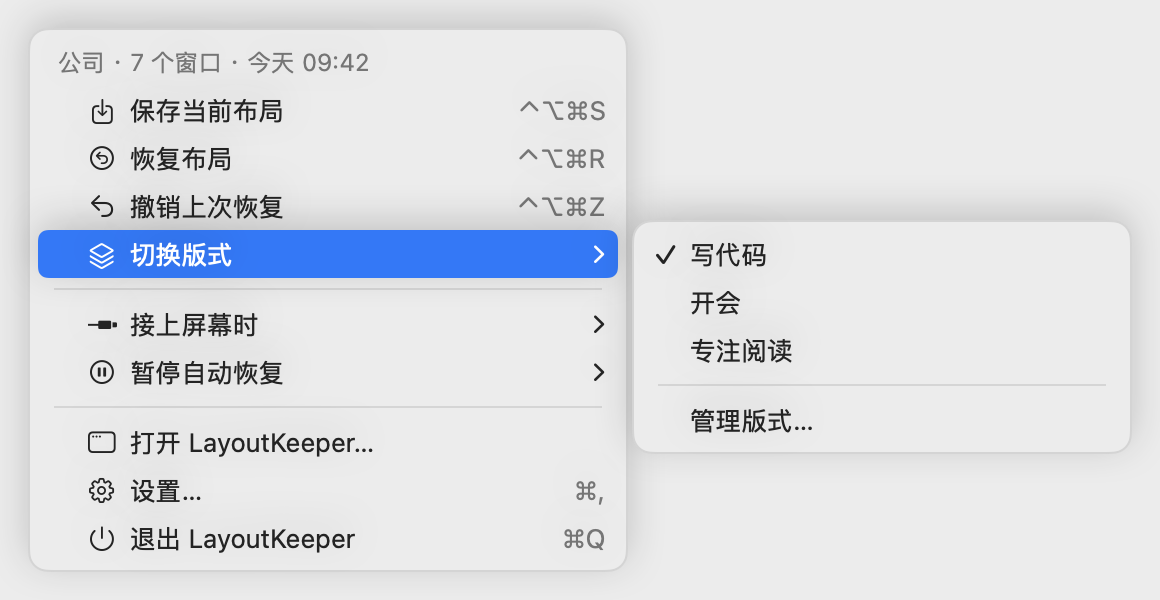
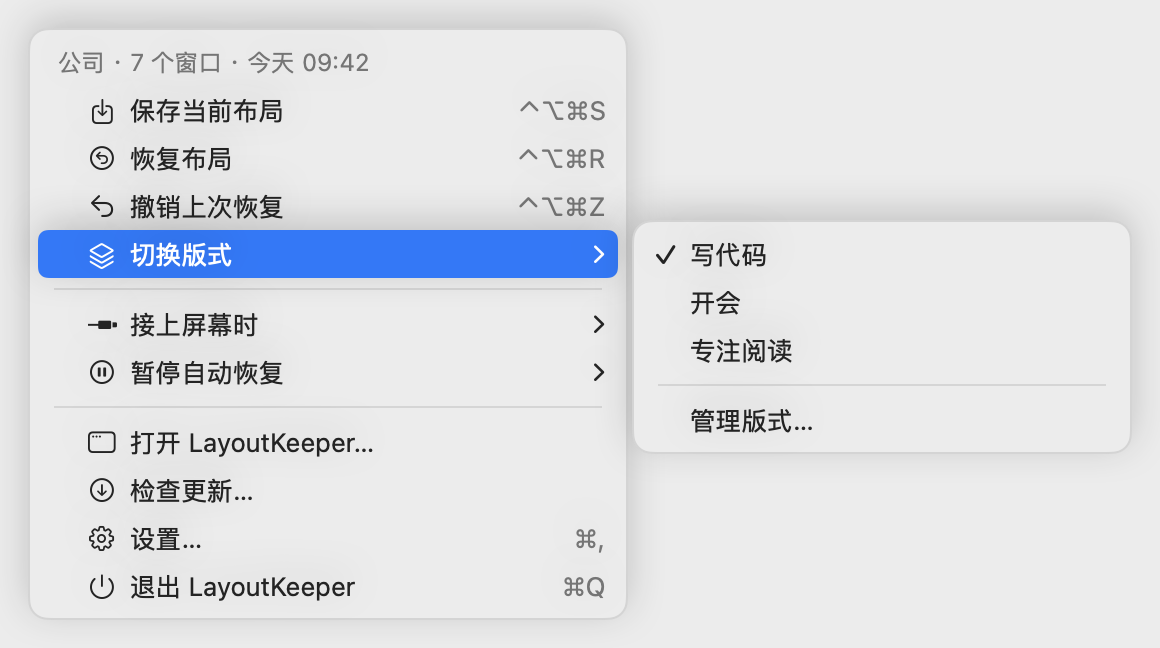
0.6.1: stable self-signed signing (cert-leaf DR) and Sparkle 2 updates (检查更新, per-arch appcasts)

diff --git a/Sources/SpacePort/Updates.swift b/Sources/SpacePort/Updates.swift
@@ -1,0 +1,58 @@
+// SPDX-License-Identifier: GPL-3.0-only
+// Copyright (C) 2026 LayoutKeeper contributors
+import AppKit
+import Sparkle
+
+/// In-app updates (Sparkle 2). Checks only contact the feed in Info.plist (GitHub Releases); updates must carry
+/// a valid EdDSA signature for SUPublicEDKey, and the new app is signed with the same certificate, so the
+/// Accessibility permission carries over.
+final class AppUpdater {
+    let controller: SPUStandardUpdaterController
+    init() { controller=SPUStandardUpdaterController(startingUpdater:true,updaterDelegate:nil,userDriverDelegate:nil) }
+    /// Nil in builds without a feed (e.g. snapshot rendering).
+    static func makeIfConfigured() -> AppUpdater? {
+        guard !RenderMode.snapshot,Bundle.main.object(forInfoDictionaryKey:"SUFeedURL") != nil,Bundle.main.object(forInfoDictionaryKey:"SUPublicEDKey") != nil else { return nil }
+        return AppUpdater()
+    }
+    var automaticallyChecks: Bool {
+        get { controller.updater.automaticallyChecksForUpdates }
+        set { controller.updater.automaticallyChecksForUpdates=newValue }
+    }
+    func checkForUpdates() { NSApp.activate(ignoringOtherApps:true); controller.checkForUpdates(nil) }
+}
+
+/// `--update-check-and-install`: headless verification used by the release checklist. Checks the configured feed,
+/// accepts the update, installs it without relaunching, logs each step to stdout and exits. Starts nothing else
+/// (no status item, hotkeys, auto-restore or window access).
+final class HeadlessUpdateDriver: NSObject, SPUUserDriver, SPUUpdaterDelegate {
+    private var updater: SPUUpdater?
+    static func log(_ s: String) { print("[update-test] \(s)"); fflush(stdout) }
+    func start() {
+        let u=SPUUpdater(hostBundle:.main,applicationBundle:.main,userDriver:self,delegate:self)
+        updater=u
+        do { try u.start() } catch { Self.log("start failed: \(error)"); exit(2) }
+        Self.log("current version \(Bundle.main.object(forInfoDictionaryKey:"CFBundleShortVersionString") ?? "?"), feed \(Bundle.main.object(forInfoDictionaryKey:"SUFeedURL") ?? "?")")
+        u.checkForUpdates()
+    }
+    func updaterShouldRelaunchApplication(_ updater: SPUUpdater) -> Bool { false }
+    func show(_ request: SPUUpdatePermissionRequest,reply: @escaping (SUUpdatePermissionResponse) -> Void) { reply(SUUpdatePermissionResponse(automaticUpdateChecks:false,sendSystemProfile:false)) }
+    func showUserInitiatedUpdateCheck(cancellation: @escaping () -> Void) { Self.log("checking…") }
+    func showUpdateFound(with item: SUAppcastItem,state: SPUUserUpdateState,reply: @escaping (SPUUserUpdateChoice) -> Void) {
+        Self.log("update found: \(item.displayVersionString) (\(item.versionString)); installing"); reply(.install)
+    }
+    func showUpdateReleaseNotes(with downloadData: SPUDownloadData) {}
+    func showUpdateReleaseNotesFailedToDownloadWithError(_ error: Error) {}
+    func showUpdateNotFoundWithError(_ error: Error,acknowledgement: @escaping () -> Void) { Self.log("no update: \(error.localizedDescription)"); acknowledgement(); exit(3) }
+    func showUpdaterError(_ error: Error,acknowledgement: @escaping () -> Void) { Self.log("error: \(error.localizedDescription) \((error as NSError).userInfo)"); acknowledgement(); exit(4) }
+    func showDownloadInitiated(cancellation: @escaping () -> Void) { Self.log("downloading…") }
+    func showDownloadDidReceiveExpectedContentLength(_ expectedContentLength: UInt64) {}
+    func showDownloadDidReceiveData(ofLength length: UInt64) {}
+    func showDownloadDidStartExtractingUpdate() { Self.log("verifying signature and extracting…") }
+    func showExtractionReceivedProgress(_ progress: Double) {}
+    func showReady(toInstallAndRelaunch reply: @escaping (SPUUserUpdateChoice) -> Void) { Self.log("ready to install; exiting so the installer can replace the bundle"); reply(.install)
+        DispatchQueue.main.asyncAfter(deadline:.now()+2) { Self.log("exiting"); exit(0) } }
+    func showInstallingUpdate(withApplicationTerminated applicationTerminated: Bool,retryTerminatingApplication: @escaping () -> Void) { Self.log("installing (terminated=\(applicationTerminated))") }
+    func showUpdateInstalledAndRelaunched(_ relaunched: Bool,acknowledgement: @escaping () -> Void) { Self.log("installed"); acknowledgement() }
+    func showUpdateInFocus() {}
+    func dismissUpdateInstallation() {}
+}

diff --git a/Sources/SpacePort/main.swift b/Sources/SpacePort/main.swift
@@ -77,6 +77,9 @@ final class Model: ObservableObject {
     var appNameCache: [String:String]=[:]
     var cachedCrossSpaceSupport: CrossSpaceSupport?
     @Published var actionNote: ActionNote?
+    /// Sparkle; nil in snapshot rendering and builds without a feed.
+    var updater: AppUpdater? { didSet { autoCheckUpdates=updater?.automaticallyChecks ?? true } }
+    @Published var autoCheckUpdates=true { didSet { if let updater,updater.automaticallyChecks != autoCheckUpdates { updater.automaticallyChecks=autoCheckUpdates } } }
     @Published var settingsTab=SettingsTab.general
     var openSettings: ((SettingsTab) -> Void)?
     @Published var autoRestoreMode=AutoRestoreMode(rawValue:Prefs.store?.string(forKey:"autoRestoreMode") ?? "") ?? .defaultMode {
@@ -149,6 +152,7 @@ final class Delegate: NSObject, NSApplicationDelegate, NSMenuDelegate, NSWindowD
     var onboarding: OnboardingController?
     var authorizationTimer: Timer?
     let toasts=ToastCenter()
+    var updater: AppUpdater?
     let hotkeys=GlobalHotkeys()
     private var liveTimer: Timer?
     private var lastAction: [String:Date]=[:]
@@ -163,6 +167,7 @@ final class Delegate: NSObject, NSApplicationDelegate, NSMenuDelegate, NSWindowD
     }
     func applicationDidFinishLaunching(_ notification: Notification) {
         model.configureEmptyWindowTrial()
+        updater=AppUpdater.makeIfConfigured(); model.updater=updater
         item=NSStatusBar.system.statusItem(withLength:NSStatusItem.variableLength)
         item.button?.image=NSImage(systemSymbolName:"rectangle.3.group",accessibilityDescription:"LayoutKeeper")
         let menu=NSMenu(); menu.autoenablesItems=false; menu.delegate=self
@@ -290,6 +295,7 @@ final class Delegate: NSObject, NSApplicationDelegate, NSMenuDelegate, NSWindowD
         case "resume": model.pausedUntil=nil
         case "open": show()
         case "settings": showSettings(.general)
+        case "checkUpdates": updater?.checkForUpdates()
         case "quit": NSApplication.shared.terminate(nil)
         case let layout where layout.hasPrefix("layout."): if let i=Int(layout.dropFirst(7)),debounce("layout") { model.applyConnectedLayout(at:i) }
         default: break
@@ -349,6 +355,7 @@ final class Delegate: NSObject, NSApplicationDelegate, NSMenuDelegate, NSWindowD
         let main=NSMenu()
         let appItem=NSMenuItem(); let app=NSMenu(); appItem.submenu=app; main.addItem(appItem)
         let settings=NSMenuItem(title:"设置…",action:#selector(openSettingsGeneral),keyEquivalent:","); settings.target=self; app.addItem(settings)
+        let updates=NSMenuItem(title:"检查更新…",action:#selector(checkForUpdates),keyEquivalent:""); updates.target=self; app.addItem(updates)
         app.addItem(.separator())
         let close=NSMenuItem(title:"关闭窗口",action:#selector(NSWindow.performClose(_:)),keyEquivalent:"w"); app.addItem(close)
         let q=NSMenuItem(title:"退出 LayoutKeeper",action:#selector(quit),keyEquivalent:"q"); q.target=self; app.addItem(q)
@@ -362,11 +369,19 @@ final class Delegate: NSObject, NSApplicationDelegate, NSMenuDelegate, NSWindowD
     func applicationDidBecomeActive(_ notification: Notification) { model.refreshExternalMonitor(); scheduleLiveCheck(after:0.6) }
     func applicationWillTerminate(_ notification: Notification) { authorizationTimer?.invalidate(); hotkeys.unregisterAll() }
     @objc func quit() { NSApplication.shared.terminate(nil) }
+    @objc func checkForUpdates() { updater?.checkForUpdates() }
 }
 if let index=CommandLine.arguments.firstIndex(of:"--render-ui-snapshots"),CommandLine.arguments.count>index+1 {
     // Offscreen PNG rendering with sample data; never touches other windows, AX, or saved layouts.
     NSApplication.shared.setActivationPolicy(.prohibited)
     exit(MainActor.assumeIsolated { UISnapshots.run(to:URL(fileURLWithPath:CommandLine.arguments[index+1])) })
+}
+if CommandLine.arguments.contains("--update-check-and-install") {
+    let app=NSApplication.shared; app.setActivationPolicy(.prohibited)
+    let driver=HeadlessUpdateDriver()
+    DispatchQueue.main.async { driver.start() }
+    DispatchQueue.main.asyncAfter(deadline:.now()+120) { HeadlessUpdateDriver.log("timed out"); exit(5) }
+    app.run(); exit(0)
 }
 AppMigration.runAtLaunch()
 let application=NSApplication.shared

diff --git a/Package.swift b/Package.swift
@@ -5,11 +5,14 @@ import PackageDescription
 let package = Package(name: "LayoutKeeper", platforms: [.macOS(.v14)], products: [
     .executable(name: "LayoutKeeper", targets: ["SpacePort"]),
     .executable(name: "layoutkeeperctl", targets: ["spaceportctl"])
+], dependencies: [
+    // Sparkle 2 (MIT) for in-app updates; see THIRD_PARTY_NOTICES.md.
+    .package(url: "https://github.com/sparkle-project/Sparkle", exact: "2.10.0")
 ], targets: [
     .target(name: "LayoutCore"),
     .target(name: "MacAdapters", dependencies: ["LayoutCore"]),
     .target(name: "SpaceProbe", publicHeadersPath: "include", cSettings: [.unsafeFlags(["-fobjc-arc"])]),
-    .executableTarget(name: "SpacePort", dependencies: ["LayoutCore", "MacAdapters", "SpaceProbe"]),
+    .executableTarget(name: "SpacePort", dependencies: ["LayoutCore", "MacAdapters", "SpaceProbe", .product(name: "Sparkle", package: "Sparkle")]),
     .executableTarget(name: "spaceportctl", dependencies: ["LayoutCore", "MacAdapters"]),
     .testTarget(name: "LayoutCoreTests", dependencies: ["LayoutCore"]),
     .testTarget(name: "MacAdaptersTests", dependencies: ["MacAdapters", "LayoutCore", "SpaceProbe"])

diff --git a/Sources/SpacePort/SettingsView.swift b/Sources/SpacePort/SettingsView.swift
@@ -96,6 +96,14 @@ struct GeneralSettings: View {
                 if !model.trusted { Button("打开系统设置") { model.openControlSettings() } }
                 Text("只在你点击引导里的“打开系统设置”时才会弹出系统授权提示；这里只打开设置，不弹提示。").font(.caption).foregroundStyle(.secondary)
             }
+            Section("更新") {
+                Toggle("自动检查更新",isOn:$model.autoCheckUpdates)
+                HStack {
+                    Text("每天检查一次。只连接 GitHub 获取版本信息和安装包，不发送任何个人数据。").font(.caption).foregroundStyle(.secondary)
+                    Spacer()
+                    Button("立即检查…") { model.updater?.checkForUpdates() }.disabled(model.updater == nil && !RenderMode.snapshot)
+                }
+            }
             Section("关于") {
                 LabeledContent("版本",value:version)
                 LabeledContent("系统",value:"macOS \(model.systemBuildText)")

diff --git a/Sources/LayoutCore/StatusMenu.swift b/Sources/LayoutCore/StatusMenu.swift
@@ -101,6 +101,7 @@ public enum StatusMenuModel {
         }
         items.append(.separator("sep2"))
         items.append(MenuItemModel(kind:.action,id:"open",title:"打开 LayoutKeeper…",symbol:"macwindow"))
+        items.append(MenuItemModel(kind:.action,id:"checkUpdates",title:"检查更新…",symbol:"arrow.down.circle"))
         items.append(s.optionHeld ? MenuItemModel(kind:.action,id:"diagnostics",title:"诊断…",symbol:"stethoscope",menuKey:",")
                                   : MenuItemModel(kind:.action,id:"settings",title:"设置…",symbol:"gearshape",menuKey:","))
         items.append(MenuItemModel(kind:.action,id:"quit",title:"退出 LayoutKeeper",symbol:"power",menuKey:"q"))

diff --git a/Tests/LayoutCoreTests/MenuAndPolicyTests.swift b/Tests/LayoutCoreTests/MenuAndPolicyTests.swift
@@ -17,7 +17,7 @@ final class StatusMenuModelTests: XCTestCase {
     func testNormalOrderShortcutsAndStatusLine() {
         var s=state(); s.canUndo=true
         let items=StatusMenuModel.build(s)
-        XCTAssertEqual(ids(items),["status","save","restore","undo","sep1","mode","pause","sep2","open","settings","quit"])
+        XCTAssertEqual(ids(items),["status","save","restore","undo","sep1","mode","pause","sep2","open","checkUpdates","settings","quit"])
         XCTAssertTrue(item(items,"status")!.title.hasPrefix("公司 · 7 个窗口 · "))
         XCTAssertTrue(item(items,"status")!.title.hasSuffix("09:42"))
         XCTAssertFalse(item(items,"status")!.enabled)

diff --git a/README.md b/README.md
@@ -52,6 +52,14 @@
 - 需要“辅助功能”权限。
 - 目前只支持**一块**外接屏。
 
+## 下载安装与更新
+
+从 [Releases](https://github.com/tumingke0/LayoutKeeper/releases/latest) 下载对应芯片的 `.dmg`（Apple 芯片选 AppleSilicon，Intel 选 Intel），把 LayoutKeeper 拖进“应用程序”。
+
+- **第一次安装**：应用没有经过 Apple 公证，第一次请**右键 → 打开**（或在“系统设置 → 隐私与安全性”点“仍要打开”），然后按引导打开一次“辅助功能”权限。
+- **之后的更新**：从 0.6.1 起，菜单栏 → **检查更新…**（或设置 → 通用 → 自动检查更新，默认每天一次）会下载并安装新版本。每个版本都用同一个签名证书签名，更新后**辅助功能权限保持有效**，不用重新授权。
+- **从 0.6.0 或更早版本升级**：需要最后一次手动安装 0.6.1（拖进“应用程序”替换），并**最后一次重新授权辅助功能**（若开关显示已打开但不生效，先用“−”移除 LayoutKeeper 再重新添加）。之后就可以用“检查更新…”了。
+
 ## 安装（从源码构建）
 
 需要 Xcode 16 或更新（Swift 6 工具链）。本项目在 Swift 6.4 / macOS 27 SDK 上开发。
@@ -64,7 +72,7 @@ cd LayoutKeeper
 open build-products/LayoutKeeper.app
 ```
 
-- 构建使用 **ad-hoc 签名**（不需要开发者账号）。**每次重新构建后，macOS 会把它当成新应用**：如果功能失效，到“系统设置 → 隐私与安全性 → 辅助功能”删除旧的 LayoutKeeper 再重新添加（点 +，⌘⇧G 输入 `build-products/LayoutKeeper.app` 的路径）。
+- 构建优先用钥匙串里的自签名证书 “LayoutKeeper Self-Signed” 签名（可用 `LAYOUTKEEPER_RELEASE_IDENTITY` 指定其他证书）；没有时退回 **ad-hoc 签名** 并给出警告。ad-hoc 构建**每次重新构建后，macOS 会把它当成新应用**：如果功能失效，到“系统设置 → 隐私与安全性 → 辅助功能”删除旧的 LayoutKeeper 再重新添加（点 +，⌘⇧G 输入 `build-products/LayoutKeeper.app` 的路径）。
 - 可以把 `LayoutKeeper.app` 拖到“应用程序”文件夹再使用。
 - 从网上下载的预编译版本没有经过 Apple 公证：第一次请在 Finder 里**右键 → 打开**，或在“系统设置 → 隐私与安全性”里点“仍要打开”。
 
@@ -108,7 +116,7 @@ open build-products/LayoutKeeper.app
 
 ## 隐私
 
-- **只在本机运行，不联网**，没有统计或更新检查。
+- **不收集任何数据**，没有统计。唯一的网络访问是**检查更新**：只连接 GitHub（Releases 上的 appcast 和安装包），不发送任何个人数据；可以在设置 → 通用里关闭“自动检查更新”。更新包必须带有正确的 EdDSA 签名才会安装。
 - 布局保存在 `~/Library/Application Support/LayoutKeeper/`，内容是应用 ID、窗口标题或文档路径、第几个桌面、归一化的位置和大小。**不保存窗口 ID、Space ID 或显示器运行时 UUID**。
 - 窗口标题只保存在你自己的 Mac 上（布局文件和撤销日志里）；自检报告和诊断导出不含窗口标题（只有短哈希），可以放心附在 Issue 里。
 - 只需要“辅助功能”权限；不需要屏幕录制、输入监控等权限。
@@ -154,7 +162,7 @@ open build-products/LayoutKeeper.app
 - **Named layouts (版式)**: keep several named layouts per monitor (e.g. "coding", "meeting") and switch with one click in the window or the menu bar's *Switch layout* submenu; undoable. Automatic restore uses the most recently saved or applied layout.
 - **Version history**: the last 5 versions per monitor, each tagged with the named layout it came from; preview, restore, or label one to keep it.
 - **Menu bar + global hotkeys**: ⌃⌥⌘S save, ⌃⌥⌘R restore, ⌃⌥⌘Z undo (configurable). Optional automatic restore on reconnect, asked once per monitor.
-- **Local only**: no network access; layouts store app IDs, titles/document paths, desktop indices and normalized frames — never window IDs or Space IDs.
+- **Local data only**: the only network access is the update check (GitHub only, can be turned off); layouts store app IDs, titles/document paths, desktop indices and normalized frames — never window IDs or Space IDs.
 
 **Requirements**: macOS 14+ (same-Space restore); macOS 26+ for cross-Space restore; Accessibility permission; one external monitor.
 
@@ -165,7 +173,7 @@ git clone https://github.com/tumingke0/LayoutKeeper.git && cd LayoutKeeper
 ./scripts/build.sh && open build-products/LayoutKeeper.app
 ```
 
-Builds are ad-hoc signed; after each rebuild, remove and re-add LayoutKeeper under System Settings → Privacy & Security → Accessibility. Prebuilt downloads are not notarized: right-click → Open the first time.
+Local builds are signed with a "LayoutKeeper Self-Signed" keychain identity when present (else ad-hoc; then re-add LayoutKeeper under Accessibility after each rebuild). Prebuilt downloads are not notarized: right-click → Open the first time and grant Accessibility once. **From 0.6.1 on, updates install via "检查更新…" (Check for Updates) and keep the Accessibility permission** (same signing certificate); upgrading from 0.6.0 or earlier needs one last manual install and re-grant. Update checks contact GitHub only (Sparkle, EdDSA-signed updates) and can be turned off in Settings.
 
 **Limitations**: relies on private APIs that may break with OS updates; Finder windows can't be moved across Spaces; "Displays have separate Spaces" should be on; LayoutKeeper never creates or reorders Spaces; one external monitor only.
 

diff --git a/docs/DEVELOPMENT.md b/docs/DEVELOPMENT.md
@@ -26,6 +26,8 @@ open build-products/LayoutKeeper.app
 
 普通构建只生成 `build-products/LayoutKeeper.app` 和 `build-products/layoutkeeperctl`，不会覆盖已运行版本，也不会碰旧的 `build-products/SpacePort.app`。`scripts/install-local.py` 默认只预览；显式 `--install` 才部署到 `~/Applications/LayoutKeeper.app`。部署要求已批准的开发签名（团队 ID 与签名身份通过环境变量 `LAYOUTKEEPER_TEAM_ID` / `LAYOUTKEEPER_SIGNING_IDENTITY` 或 gitignored 的 `scripts/signing.local` 提供，不写进源码），拒绝 ad-hoc 候选，拒绝任何 LayoutKeeper/SpacePort GUI 正在运行的情况；指定要求变化须显式接受。已有签名身份和诊断边界见 [授权与稳定构建](AUTHORIZATION.md)。
 
+**签名与更新**：`scripts/build.sh` 用钥匙串里的自签名证书 “LayoutKeeper Self-Signed”（无个人信息，有效期 10 年；可用 `LAYOUTKEEPER_RELEASE_IDENTITY` 覆盖）由内向外签 Sparkle 的 XPC 服务、Autoupdate、Updater.app、Sparkle.framework 和应用；指定要求（designated requirement）是 `identifier "local.layoutkeeper.app" and certificate leaf = H"…"`，跨版本不变，所以 TCC 的辅助功能授权在更新后保持。没有该证书时退回 ad-hoc 并警告。不开启 hardened runtime（自签名证书没有 Team ID，库验证会拒绝加载嵌入的框架）。更新用 Sparkle 2（SwiftPM）：`SUFeedURL` 按架构写入 `…/releases/latest/download/appcast-<arch>.xml`（`LAYOUTKEEPER_FEED_URL` 可覆盖，用于本地测试）；`scripts/make-appcast.sh --arch …` 生成更新 zip、用钥匙串里的 EdDSA 私钥（账户 `layoutkeeper`）签名并写 appcast；Sparkle 工具（`sign_update` 等）来自同版本的 Sparkle 发行包，放在 `.build/sparkle-tools`。`--update-check-and-install` 是无界面的更新自检（检查、下载、验签、安装后退出，不重新打开、不启动其他功能），用于发布前在本地 feed 上验证。证书 p12 和 EdDSA 私钥只在维护者本机备份，绝不提交。
+
 **隐私闸门**：`scripts/build.sh` 在剥离调试符号并签名后运行 `scripts/privacy-gate.py`，扫描 .app 和 CLI 里的每个文件（二进制用 `strings -a`）；发现 `/Users/`、当前 `$USER` / `$HOME`、`scripts/signing.local` 里的团队 ID 和签名名、gitignored 的 `scripts/privacy-terms.local` 里的私有词（每行一个），或不在白名单上的邮箱地址时，构建失败。`scripts/make-dmg.sh --arch arm64|x86_64` 打包前后各检查一次（扫描最终 dmg 的内容），不通过就删除 dmg。测试：`python3 scripts/test-privacy-gate.py`。
 
 需要已有 Xcode/Swift 工具链。本机使用 Swift 6.4、macOS 27 SDK、arm64 构建。默认构建采用不使用私钥的 ad-hoc 签名，只用于候选验证；正式部署需另行获准沿用开发签名。没有发布或联网功能；开机自启只在用户于引导或设置中开启时通过 SMAppService 注册。`--disable-sandbox` 仅关闭 SwiftPM 的构建子进程沙箱；不改变 SIP、TCC 或系统安全设置。构建缓存默认在项目 `.build`，可用 `LAYOUTKEEPER_BUILD_DIR=/tmp/spaceport-build` 指定其他路径（旧名 `SPACEPORT_BUILD_DIR` 仍可用）。

diff --git a/THIRD_PARTY_NOTICES.md b/THIRD_PARTY_NOTICES.md
@@ -1,9 +1,46 @@
 # Third-party notices
 
 LayoutKeeper is licensed under the GNU General Public License v3.0 only (`GPL-3.0-only`, see `LICENSE`),
-matching AltTab's license. It has no third-party runtime dependencies; it links only Apple system frameworks
+matching AltTab's license. Its only third-party runtime dependency is Sparkle (MIT, below) for in-app updates; otherwise it links only Apple system frameworks
 (AppKit, SwiftUI, ApplicationServices, ServiceManagement, Carbon) and resolves some private SkyLight /
 HIServices symbols dynamically at run time.
+
+## Sparkle
+
+LayoutKeeper embeds Sparkle 2 (`Contents/Frameworks/Sparkle.framework`, added via Swift Package Manager) to check for and
+install updates. Sparkle's full license, including the notices for code it bundles, ships in its release archive.
+
+Project: https://github.com/sparkle-project/Sparkle
+
+```
+Copyright (c) 2006-2013 Andy Matuschak.
+Copyright (c) 2009-2013 Elgato Systems GmbH.
+Copyright (c) 2011-2014 Kornel Lesiński.
+Copyright (c) 2015-2017 Mayur Pawashe.
+Copyright (c) 2014 C.W. Betts.
+Copyright (c) 2014 Petroules Corporation.
+Copyright (c) 2014 Big Nerd Ranch.
+All rights reserved.
+
+Permission is hereby granted, free of charge, to any person obtaining a copy of
+this software and associated documentation files (the "Software"), to deal in
+the Software without restriction, including without limitation the rights to
+use, copy, modify, merge, publish, distribute, sublicense, and/or sell copies of
+the Software, and to permit persons to whom the Software is furnished to do so,
+subject to the following conditions:
+
+The above copyright notice and this permission notice shall be included in all
+copies or substantial portions of the Software.
+
+THE SOFTWARE IS PROVIDED "AS IS", WITHOUT WARRANTY OF ANY KIND, EXPRESS OR
+IMPLIED, INCLUDING BUT NOT LIMITED TO THE WARRANTIES OF MERCHANTABILITY, FITNESS
+FOR A PARTICULAR PURPOSE AND NONINFRINGEMENT. IN NO EVENT SHALL THE AUTHORS OR
+COPYRIGHT HOLDERS BE LIABLE FOR ANY CLAIM, DAMAGES OR OTHER LIABILITY, WHETHER
+IN AN ACTION OF CONTRACT, TORT OR OTHERWISE, ARISING FROM, OUT OF OR IN
+CONNECTION WITH THE SOFTWARE OR THE USE OR OTHER DEALINGS IN THE SOFTWARE.
+
+=================
+```
 
 ## yabai
 

diff --git a/docs/USABILITY.md b/docs/USABILITY.md
@@ -1,4 +1,4 @@
-# 使用说明（LayoutKeeper 0.6.0 build 14）
+# 使用说明（LayoutKeeper 0.6.1 build 15）
 
 LayoutKeeper 原名 SpacePort。日常只用菜单栏：**保存当前布局 → 恢复布局 → 需要时撤销**。主窗口用来看状态和改屏幕名称。
 
@@ -27,6 +27,7 @@ LayoutKeeper 原名 SpacePort。日常只用菜单栏：**保存当前布局 →
 | 接上屏幕时 ▸ | — | 关闭恢复 / 先询问恢复 / 自动恢复（全局默认）。当前屏幕有单独记住的选择时，会多出“<屏幕名>：<选择>（已记住）”和“改回跟随上面的设置”。 |
 | 暂停自动恢复 ▸ | — | 1 小时 / 直到明天；暂停中显示“自动恢复已暂停（至 HH:mm）▸ 恢复自动”。 |
 | 打开 LayoutKeeper… | — | 主窗口。 |
+| 检查更新… | — | 连接 GitHub 检查新版本，有更新时显示说明并可一键安装（更新后辅助功能权限保持有效）。设置 → 通用 → 更新里可关闭每天一次的自动检查。 |
 | 设置… | ⌘, | 按住 Option 变成“诊断…”。 |
 | 退出 LayoutKeeper | ⌘Q | |
 
